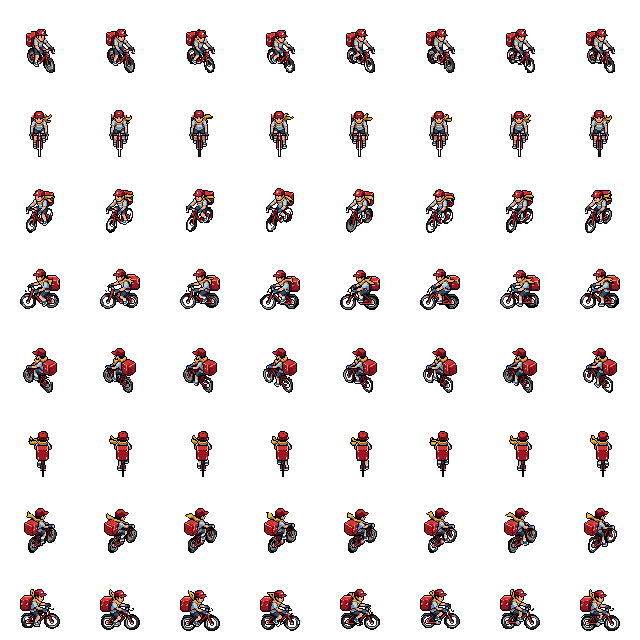
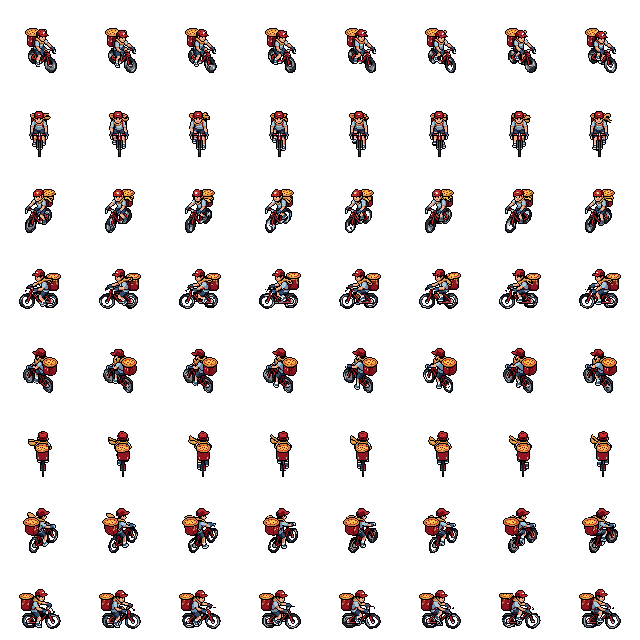
rookie2: With pizza state (pizza on the box) while carrying, empty box around town

diff --git a/README.md b/README.md
@@ -170,4 +170,4 @@ scripts/iso.gd, bike_draw.gd   drawing helpers
 bridge/trainer_bridge.py    BLE <-> UDP bridge (Python, bleak)
 ```
 
-Everything is drawn procedurally, but pixel art can replace it piece by piece: whatever has no art keeps its procedural drawing (see `scripts/sprites.gd`). Art is read from `art/` (or the game's user data folder under `art/`, for testing without rebuilding). So far riders can use art: `art/bike.png` is a sheet of 64x64 frames, 4 pedal frames across and 8 directions down (down-right, down, down-left, left, up-left, up, up-right, right), with the wheels touching the ground 12 px above the bottom centre of each frame. Optional greyscale `bike_jersey.png` and `bike_frame.png` layers are tinted per rider, `bike_box.png` shows only while carrying a pizza, and `bike_<rider>.png` (e.g. `bike_dave.png`) gives one rider their own sheet. Instead of the box layer a rider can have whole looks: `bike_<rider>_boxed.png` (riding around town with the delivery box), `bike_<rider>_pizza.png` (carrying a pizza) and `bike_<rider>.png` (no box, for races); sheets can have any number of pedal frames, and a single column is a still. Your rider uses these (`art/bike_you_pizza.png` and `art/bike_you.png`, the PixelLab character "rookie2", whose south view rides straight down the screen), built from its export with `godot --headless -s tools/import_rider.gd -- <export dir> rows=south-east,south,south-west,west,north-west,north,north-east,east Idle=bike_you_pizza No_pizza=bike_you` (`rows=` picks which export pose goes on each row). `PIZZA_DEBUG=bake_bike [PIZZA_WHO=Dave]` draws the current procedural bike in exactly this format to `art/templates/`, as a template to paint over. Dev helpers: `PIZZA_DEBUG=city|race|shop|er|flow|rails|roads|overview godot --path .`; `PIZZA_DEBUG=shot PIZZA_OUT=dir [PIZZA_AT=x,y;...|junctions|shops] [PIZZA_CARRY=1]` saves screenshots (optionally carrying a pizza); `PIZZA_DEBUG=race_shot [PIZZA_COURSE=0|1] PIZZA_OUT=dir` saves race screenshots at the first jump, log, creek and wildlife; `PIZZA_DEBUG=powerups PIZZA_OUT=dir` tries every power-up in town and in a race and saves a screenshot of each; `PIZZA_DEBUG=readme godot --path .` regenerates the README screenshots in `docs/`; `PIZZA_SEASON=spring|summer|fall|winter` forces a season; `PIZZA_DEBUG=seasons [PIZZA_OUT=dir]` saves the title view and each kind of seasonal scenery in every season; `PIZZA_DEBUG=ride [PIZZA_OUT=dir]` rides for a few seconds and writes the Strava TCX file and screenshots.
+Everything is drawn procedurally, but pixel art can replace it piece by piece: whatever has no art keeps its procedural drawing (see `scripts/sprites.gd`). Art is read from `art/` (or the game's user data folder under `art/`, for testing without rebuilding). So far riders can use art: `art/bike.png` is a sheet of 64x64 frames, 4 pedal frames across and 8 directions down (down-right, down, down-left, left, up-left, up, up-right, right), with the wheels touching the ground 12 px above the bottom centre of each frame. Optional greyscale `bike_jersey.png` and `bike_frame.png` layers are tinted per rider, `bike_box.png` shows only while carrying a pizza, and `bike_<rider>.png` (e.g. `bike_dave.png`) gives one rider their own sheet. Instead of the box layer a rider can have whole looks: `bike_<rider>_boxed.png` (riding around town with the delivery box), `bike_<rider>_pizza.png` (carrying a pizza) and `bike_<rider>.png` (no box, for races); sheets can have any number of pedal frames, and a single column is a still. Your rider uses all three (`art/bike_you_boxed.png`, `art/bike_you_pizza.png` and `art/bike_you.png`, the PixelLab character "rookie2", whose south view rides straight down the screen; its states are Idle with the empty box, With pizza with a pizza on top of the box, and No pizza), built from its export with `godot --headless -s tools/import_rider.gd -- <export dir> rows=south-east,south,south-west,west,north-west,north,north-east,east Idle=bike_you_boxed With_pizza=bike_you_pizza No_pizza=bike_you` (`rows=` picks which export pose goes on each row). `PIZZA_DEBUG=bake_bike [PIZZA_WHO=Dave]` draws the current procedural bike in exactly this format to `art/templates/`, as a template to paint over. Dev helpers: `PIZZA_DEBUG=city|race|shop|er|flow|rails|roads|overview godot --path .`; `PIZZA_DEBUG=shot PIZZA_OUT=dir [PIZZA_AT=x,y;...|junctions|shops] [PIZZA_CARRY=1]` saves screenshots (optionally carrying a pizza); `PIZZA_DEBUG=race_shot [PIZZA_COURSE=0|1] PIZZA_OUT=dir` saves race screenshots at the first jump, log, creek and wildlife; `PIZZA_DEBUG=powerups PIZZA_OUT=dir` tries every power-up in town and in a race and saves a screenshot of each; `PIZZA_DEBUG=readme godot --path .` regenerates the README screenshots in `docs/`; `PIZZA_SEASON=spring|summer|fall|winter` forces a season; `PIZZA_DEBUG=seasons [PIZZA_OUT=dir]` saves the title view and each kind of seasonal scenery in every season; `PIZZA_DEBUG=ride [PIZZA_OUT=dir]` rides for a few seconds and writes the Strava TCX file and screenshots.
